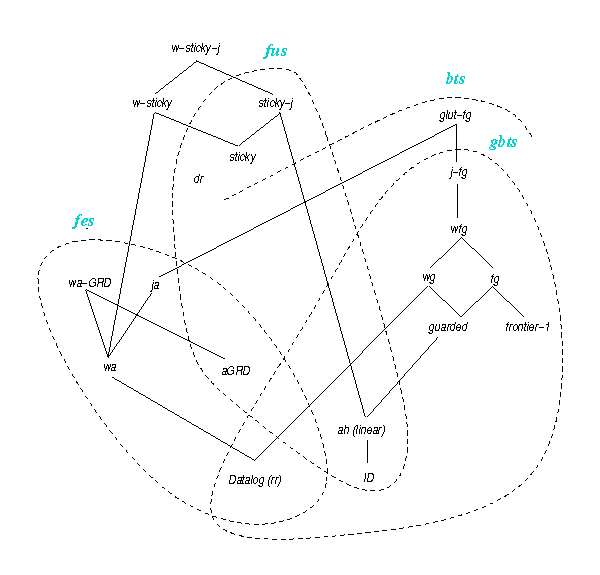
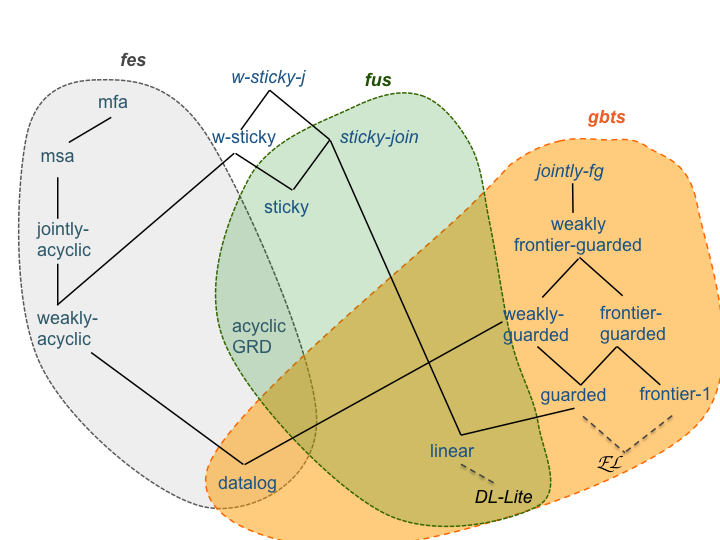
update

diff --git a/kiabora.html b/kiabora.html
@@ -38,7 +38,7 @@
     <!-- MAIN CONTENT -->
     <div id="main_content_wrap" class="outer">
       <section id="main_content" class="inner">
-        <p>This tool is dedicated to the analysis of a set of
+        <p>Kiabora is dedicated to the analysis of a set of
         existential rules. It can check if this set belongs to a known
         <strong>decidable</strong> class of rules,
         either directly or by means of its
@@ -47,11 +47,11 @@
         properties of the strongly connected components in the GRD,
         which allows to determine properties of the rule set with
         respect to decidability as well as the kind of paradigm
-        (forward or backward chaining) ensuring decidability.</p>
+        (forward or backward chaining) that ensures decidability.</p>
 		<p>
 		  The analysis is divided into two steps. The first step
 		  <i>determines</i> the rule classes of the whole base,
-		  or of part of it (a strongly connected component of the graph of rule dependencies for instance), while the second step
+		  or of part of it (a strongly connected component of the GRD for instance), while the second step
 		  <i>combines</i> these classes in order to find a way of ensuring a finite query answering process.
 		</p>
 		<a name="determining"></a>
@@ -63,19 +63,19 @@
 		  without performing any other test.
 		</p>
 		<p>
-		  Only the rule classes selected by the user are used by the analizer,
+		  Only the rule classes selected by the user are considered by the analyzer,
 		  therefore the second analysis step may fail even if the
 		  tool would be able to find a solution by using other rule classes.
 		</p>
 		<p>Furthermore, the different tests may be performed on each rule independently
-		  or on a set of rules. Indeed, the analyzer first checks all unit properties on
+		  or on a set of rules. Indeed, the analyzer first checks all <em>local properties</em> on
 		  each rule, then it computes the <a href="./ruleclasses.html#grd">
 			Graph of Rule Dependencies</a> and
-		  checks all global properties on each strongly connected component of the GRD.
+		  checks all <em>global properties</em> on each strongly connected component of the GRD.
 		  Finally, it checks all global properties on the full base.
 		</p><p>
 		  For further information about rule classes, you can go to <a href="./ruleclasses.html">this page</a> where each
-		  rule class is shortly described.
+		  rule class currently considered is shortly described.
 		</p>
 		<a name="combining"></a>
         <h4>Combining rule classes</h4>
@@ -83,28 +83,29 @@
 		  the second analysis step consists of combining <i>abstract</i> rule classes
 		  (i.e., <i>Finite Expansion Set</i>, <i>Finite Unification Set</i> and <i>(Greedy) Bounded
 			Treewidth Set</i>) to which the strongly connected components belong, in
-		  order to find a way of ensuring finiteness of the query process.
+		  order to find a way of ensuring finiteness of the query
+		  answering process.
 		</p>
 		<p>
 		  <!-- When using multiple algorithms, the <i>forward chaining</i> must be processed
 			   before any <i>backward chaining</i>.-->
-		  A sufficient property for the base to be <i>decidable</i> is that no rule
+		  A sufficient property for decidability is that no rule
 		  that will be processed as <i>fes</i>  depends on a
 		  <i>fus</i> or <i>bts</i> rule, and no  rule that will be processed as <i>bts</i> depends on a <i>fus</i>  rule.
-		  This property is noted as:
+		  In short:
 		  <em>FES<sup>*</sup> |&gt; BTS |&gt; FUS<sup>*</sup></em>
 		  <br>
-		  where <em>A |&gt; B</em> is the notation for "A precedes B", i.e.,
+		  where <em>A |&gt; B</em> means "A precedes B", i.e.,
 		  there must be no edge from a rule in B to a rule in A.
-		  We can see that a <i>bts</i> component must not be followed by another
-		  <i>bts</i>.
 		</p>
         <h2>Associated publications</h2>
-            <p>See <a href="./publications#KIABORA_RR2013">KIABORA: An Analyzer of Existential Rule Bases (RR 2013)</a>.</p>
+            <p>See <a href="./publications#KIABORA_RR2013">KIABORA: An
+            Analyzer of Existential Rule Bases (RR 2013)</a> (note
+            that the current version of Kiabora recognizes more classes).</p>
         <h2>Getting started</h2>
         <p>Download <a href="./dl/kiabora-1.1.0.jar">kiabora</a></p>
         <p>
-          Full analyse of your ontology: <br/>
+          Full analysis of your ontology: <br/>
           <code>java -jar kiabora-*.jar -c -b -g -p '*' -P -r -R -s -G -S -u < ontology.dlp</code>
         </p>
         <p>

diff --git a/utility-tools.html b/utility-tools.html
@@ -42,27 +42,32 @@
         <p>The utility-tools program is a set of utilities to manage
           rules. It currently has three features:</p>
         <dl>
-          <dt>atomic-head</dt><dd>transform a rule set into a set
-          of atomic-head rules.</dd>
-          <dt>singlepiece-head</dt><dd>transform a rule set into a
+          <dt>singlepiece-head decomposition</dt><dd>transforms a rule set into a
           set of single-piece head rules.</dd>
-          <dt>labeler</dt><dd>add labels to each rule:
+          <dt>atomic-head decomposition</dt><dd>transforms a rule set into a set
+          of atomic-head rules.</dd>
+          <dt>labeler</dt><dd>adds annotations into the label of each
+          rule if some patterns below are recognized:
               <ul>
-          <li><strong>CI</strong>: Concept Inclusion - <em>A(x) -> B(x)</em></li>
-          <li><strong>RI</strong>: Role Inclusion - <em>p(x,y) -> r(x,y)</em></li>
-          <li><strong>Inv</strong>: Inverse Role - <em>p(x,y) -> r(y,x)</em></li>
-          <li><strong>Dom</strong>: Domain - <em> p(x,y) -> A(x)</em></li>
-          <li><strong>Rng</strong>: Range - <em>p(x,y) -> A(y)</em></li>
-          <li><strong>MR</strong>: Mandatory Role - <em>A(x) -> p(x,y)</em></li>
-          <li><strong>IMR</strong>: Inverse Mandatory Role - <em>A(y) -> p(x,y)</em></li>
+          <li><strong>CI</strong>: Concept Inclusion - <em>B(x) :- A(x)</em></li>
+          <li><strong>RI</strong>: Role Inclusion - <em>r(x,y) :- p(x,y)</em></li>
+          <li><strong>Inv</strong>: Inverse Role - <em>r(y,x) :- p(x,y)</em></li>
+          <li><strong>Dom</strong>: Domain - <em> A(x) :- p(x,y)</em></li>
+          <li><strong>Rng</strong>: Range - <em>A(y) :- p(x,y)</em></li>
+          <li><strong>MR</strong>: Mandatory Role - <em>p(x,y) :- A(x)</em></li>
+          <li><strong>IMR</strong>: Inverse Mandatory Role - <em>
+          p(x,y) :- A(y) </em></li>
           <li><strong>ERC</strong>: Existential quantification in rule
-            heads - <em>A(x) -> p(x,y), B(y)</em></li>
-          <li><strong>IERC</strong>: ERC with Inverse role - <em>A(x) -> p(y,x), B(y)</em></li>
-          <li><strong>Trans</strong>: Transitivity - <em>p(x,y),p(y,z) -> p(x,z)</em></li>
-          <li><strong>RC</strong>: Role Composition - <em> p(x,y),r(y,z) -> s(x,z)</em></li>
-          <li><strong>Func</strong>: Functional dependency - <em> BODY -> x = y</em></li>
-          <li><strong>DC</strong>: Disjoint Concept - <em>! A(x), B(x)</em></li>
-          <li><strong>DR</strong>: Disjoint Role - <em>!
+            heads - <em>p(x,y), B(y) :- A(x)</em></li>
+          <li><strong>IERC</strong>: ERC with Inverse role - <em>
+          p(y,x), B(y) :- A(x)</em></li>
+          <li><strong>Trans</strong>: Transitivity - <em> p(x,z) :- p(x,y),p(y,z) </em></li>
+          <li><strong>RC</strong>: Role Composition - <em>
+          s(x,z) :- p(x,y),r(y,z)</em></li>
+          <li><strong>Func</strong>: Functional dependency - <em> x
+          = y :- BODY </em></li>
+          <li><strong>DC</strong>: Disjoint Concept - <em>! :-  A(x), B(x)</em></li>
+          <li><strong>DR</strong>: Disjoint Role - <em>! :-
               p(x,y),r(x,y)</em></li>
           <li><strong>NC</strong>: Negative Constraint - <em> ! BODY </em></li>
         </ul>
@@ -73,10 +78,10 @@
             <li>Download <a href="./dl/utility-tools-1.0.0.jar">utility-tools</a></li>
             <li>Download <a href="./dl/example1.dlp">example1.dlp</a></li>
         </ul>
-        <h3> Compute atomic head rules </h3>
-        <code>java -jar utility-tools-*.jar -a < ./example1.dlp </code>
         <h3> Compute single-piece head rules </h3>
         <code>java -jar utility-tools-*.jar -p < ./example1.dlp </code>
+        <h3> Compute atomic head rules </h3>
+        <code>java -jar utility-tools-*.jar -a < ./example1.dlp </code>
         <h3> Label rules </h3>
         <code>java -jar utility-tools-*.jar -l < ./example1.dlp</code>
       </section>

diff --git a/ruleclasses.html b/ruleclasses.html
@@ -55,7 +55,7 @@
 						<li><a href='#fg'>Frontier-guarded</a></li>
 						<li><a href='#fr1'>Frontier-one</a></li>
 						<li><a href='#g'>Guarded</a></li>
-						<li><a href='#lin'>Linear</a></li>
+						<li><a href='#lin'>Linear or atomic-body</a></li>
 						<li><a href='#rr'>Range-restricted</a></li>
 						<li><a href='#s'>Sticky</a></li>
 						<li><a href='#wa'>Weakly-acyclic</a></li>
@@ -159,10 +159,9 @@
 		analyzer, hence they are not described below. These classes are the following:</p>
 		<ul>
 			<li>weakly-sticky-join (w-sticky-j)</li>
-			<li>sticky-join (sticky-j)</li>
-			<li>glut-frontier-guarded (glut-fg)</li>
-			<li>jointly-frontier-guarded (j-fg)</li>
-			<li>jointly-acyclic (ja).</li>
+			<li>sticky-join</li>
+			<li>jointly-frontier-guarded (jointly-fg)</li>
+			<li>jointly-acyclic</li>
 		</ul>
         <a name="abstract"></a>
 		<h3>Abstract Rule Classes</h3>
@@ -193,8 +192,7 @@ the facts.</p>
 although there is currently no algorithm available for this class.
 However, <em>Greedy Bounded Treewidth Set (GBTS)</em> is an
 expressive subclass of BTS that is provided with a forward chaining
-like halting algorithm. Note that, except for <em>glut-fg</em>
-(cf. Figure), all currently known BTS but not FES classes are GBTS.</p>
+like halting algorithm. Almost all currently known BTS but not FES classes are GBTS.</p>
         <a name="concrete"></a>
 		<h3>Concrete Rule Classes</h3>
 		<p>
@@ -283,7 +281,7 @@ frontier.</p>
 				<p>At least one atom in the body (called a <em>guard</em>) contains
 all the variable from the body.</p>
             <a name="lin"></a>
-			<h4>Linear (lin)</h4>
+			<h4>Linear or atomic-body (lin)</h4>
 				<p>This rule class property is a local property.<br/>
 				Ensures:
 				<ul>
@@ -291,7 +289,7 @@ all the variable from the body.</p>
 						<li>gbts</li>
 				</ul>
 				</p>
-				<p>The body contains only a single atom.</p>
+				<p>The body contains a single atom.</p>
             <a name="rr"></a>
 			<h4>Range-restricted (rr)</h4>
 				<p>This rule class property is a local property.<br/>
@@ -322,7 +320,7 @@ href='#marked'>marked variable set</a>).</p>
 				</ul>
 				</p>
 				<p>All predicate positions in the <a href='#gp'>graph of position
-dependencies</a> have finite rank (i.e., there is no circuit with
+dependencies</a> have finite rank (i.e., there is no circuit with a
 special edge).</p>
             <a name="wfg"></a>
 			<h4>Weakly-frontier-guarded (wfg)</h4>

diff --git a/index.html b/index.html
@@ -55,18 +55,18 @@ reasoning, data engineering, java, semantic web, description logics"/>
           <li> utility tools:
             <ul>
               <li>
-                a format called <i>DLGP</i> (for ‘datalog+’) and its
+                a format called <strong>Dlgp</strong> (for ‘datalog+’) and its
                 parser;
               </li>
               <li>
-                a tool called <i>Kiabora</i>, which performs a structural analysis of an existential rule set to determine its decidability
+                a tool called <strong>Kiabora</strong>, which performs a structural analysis of an existential rule set to determine its decidability
                 properties; it also allows to decompose rules;
               </li>
               <li>
-                a translator from OWL 2 to <em>dlgp</em>;
+                a translator from <strong>OWL 2</strong> to <strong>Dlgp</strong>;
               </li>
               <li>
-                a translator from <em>dlgp</em> to RuleML.
+                a translator from <strong>Dlgp</strong> to <strong>RuleML</strong>.
               </li>
             </ul>
           </li>
@@ -100,8 +100,8 @@ reasoning, data engineering, java, semantic web, description logics"/>
           <h2>Related standalone tools</h2>
              <ul>
                <li><a href="./pure">Query rewriter (Pure: basic and compilation-based versions) </a></li>
-               <li><a href="./owl2dlgp">Translator from OWL 2 to DLGP v2</a></li>
-               <li><a href="./dlgp2ruleml">Translator from DLGP v2 to RuleML</a></li>
+               <li><a href="./owl2dlgp">Translator from OWL 2 to Dlgp v2</a></li>
+               <li><a href="./dlgp2ruleml">Translator from Dlgp v2 to RuleML</a></li>
                <li><a href="./kiabora">Kiabora</a></li>
                <li><a href="./utility-tools">Utility tools</a></li>
              </ul>

diff --git a/publications.html b/publications.html
@@ -30,7 +30,8 @@
       <section id="main_content" class="inner">
       <h2>Papers on the implemented tools</h2>
       <a name="RuleML2015"></a>
-      <h5>Overview of Graal, with focus on the query rewriting algorithm </h5>
+      <h5>Overview of Graal, with focus on the query rewriting
+      algorithm (PURE and its optimizations)</h5>
       <p>J.-F. Baget, M. Leclère, M.-L. Mugnier, S. Rocher, and C. Sipieter.
       <i>Graal: A Toolkit for Query Answering with Existential Rules</i>,
       in <strong>RuleML 2015</strong> Conference, August
@@ -54,7 +55,7 @@
       <i>KIABORA: An Analyzer of Existential Rule Bases</i>,
       Proc. of the 7th International Conference on Web Reasoning and Rule Systems <strong>(RR 2013)</strong>, July 2013.
       <a href="http://www.lirmm.fr/%7Emugnier/ArticlesPostscript/RR2013_LMR.pdf">pdf file</a></p>
-      <h2>Theoretical foundation and Algorithms</h2>
+      <h2>Theoretical foundations and Algorithms</h2>
       <h5>On the compilation-based query rewriting algorithm (implemented as the compilation-based PURE rewriter)</h5>
       <a name="IJCAI2015"></a>
       <p>M. König, M. Leclère, and M.-L. Mugnier.

diff --git a/documentation.html b/documentation.html
@@ -73,9 +73,9 @@
             <dt><a href="./pure">Pure</a></dt>
             <dd>A query rewriter.</dd>
             <dt><a href="./owl2dlgp">OWL2DLGP</a></dt>
-            <dd>A translator of OWL2 to Dlgp.</dd>
+            <dd>A translator from OWL2 to Dlgp.</dd>
             <dt><a href="./dlgp2ruleml">DLGP2RuleML</a></dt>
-            <dd>A translator of Dlgp to the Datalog+ fragment of
+            <dd>A translator from Dlgp to the Datalog+ fragment of
               Deliberation RuleML 1.01.</dd>
             <dt><a href="./kiabora">Kiabora</a></dt>
             <dd>An analyser of a set of existential rules.</dd>
